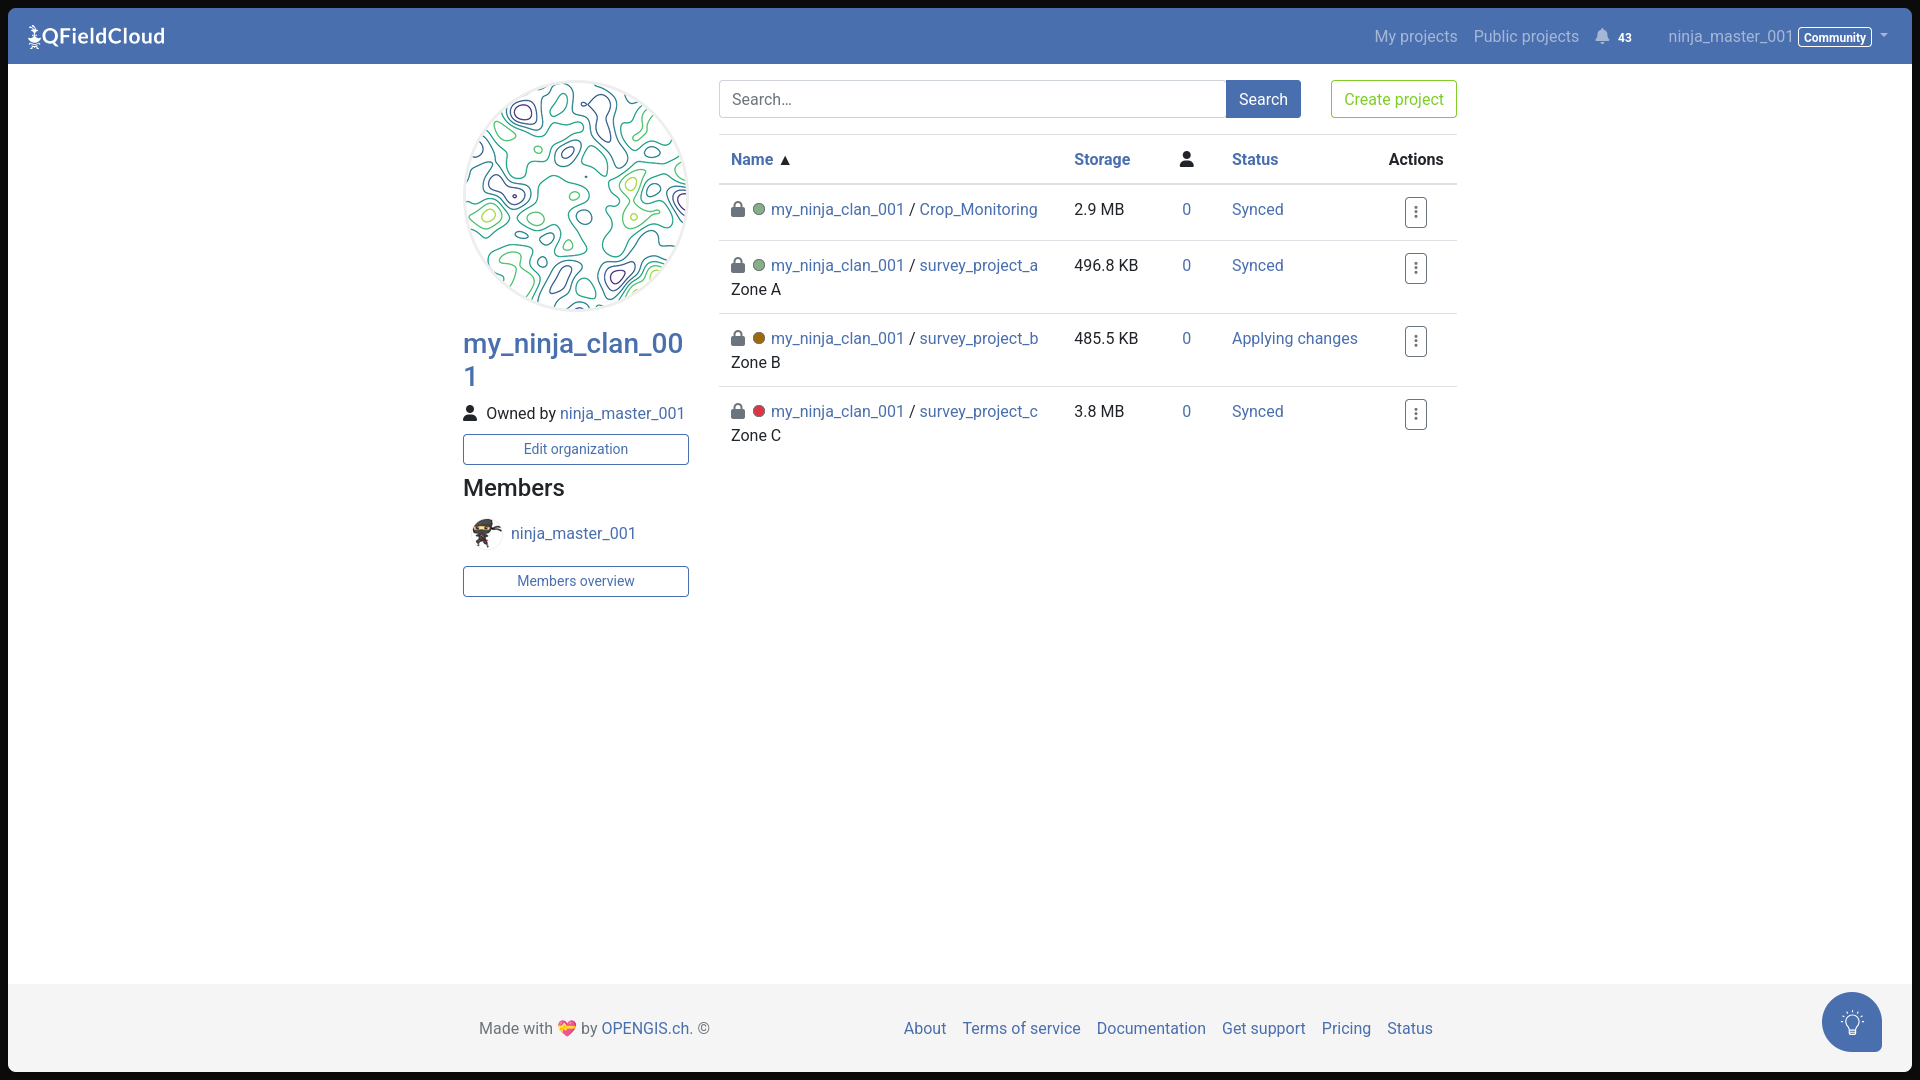
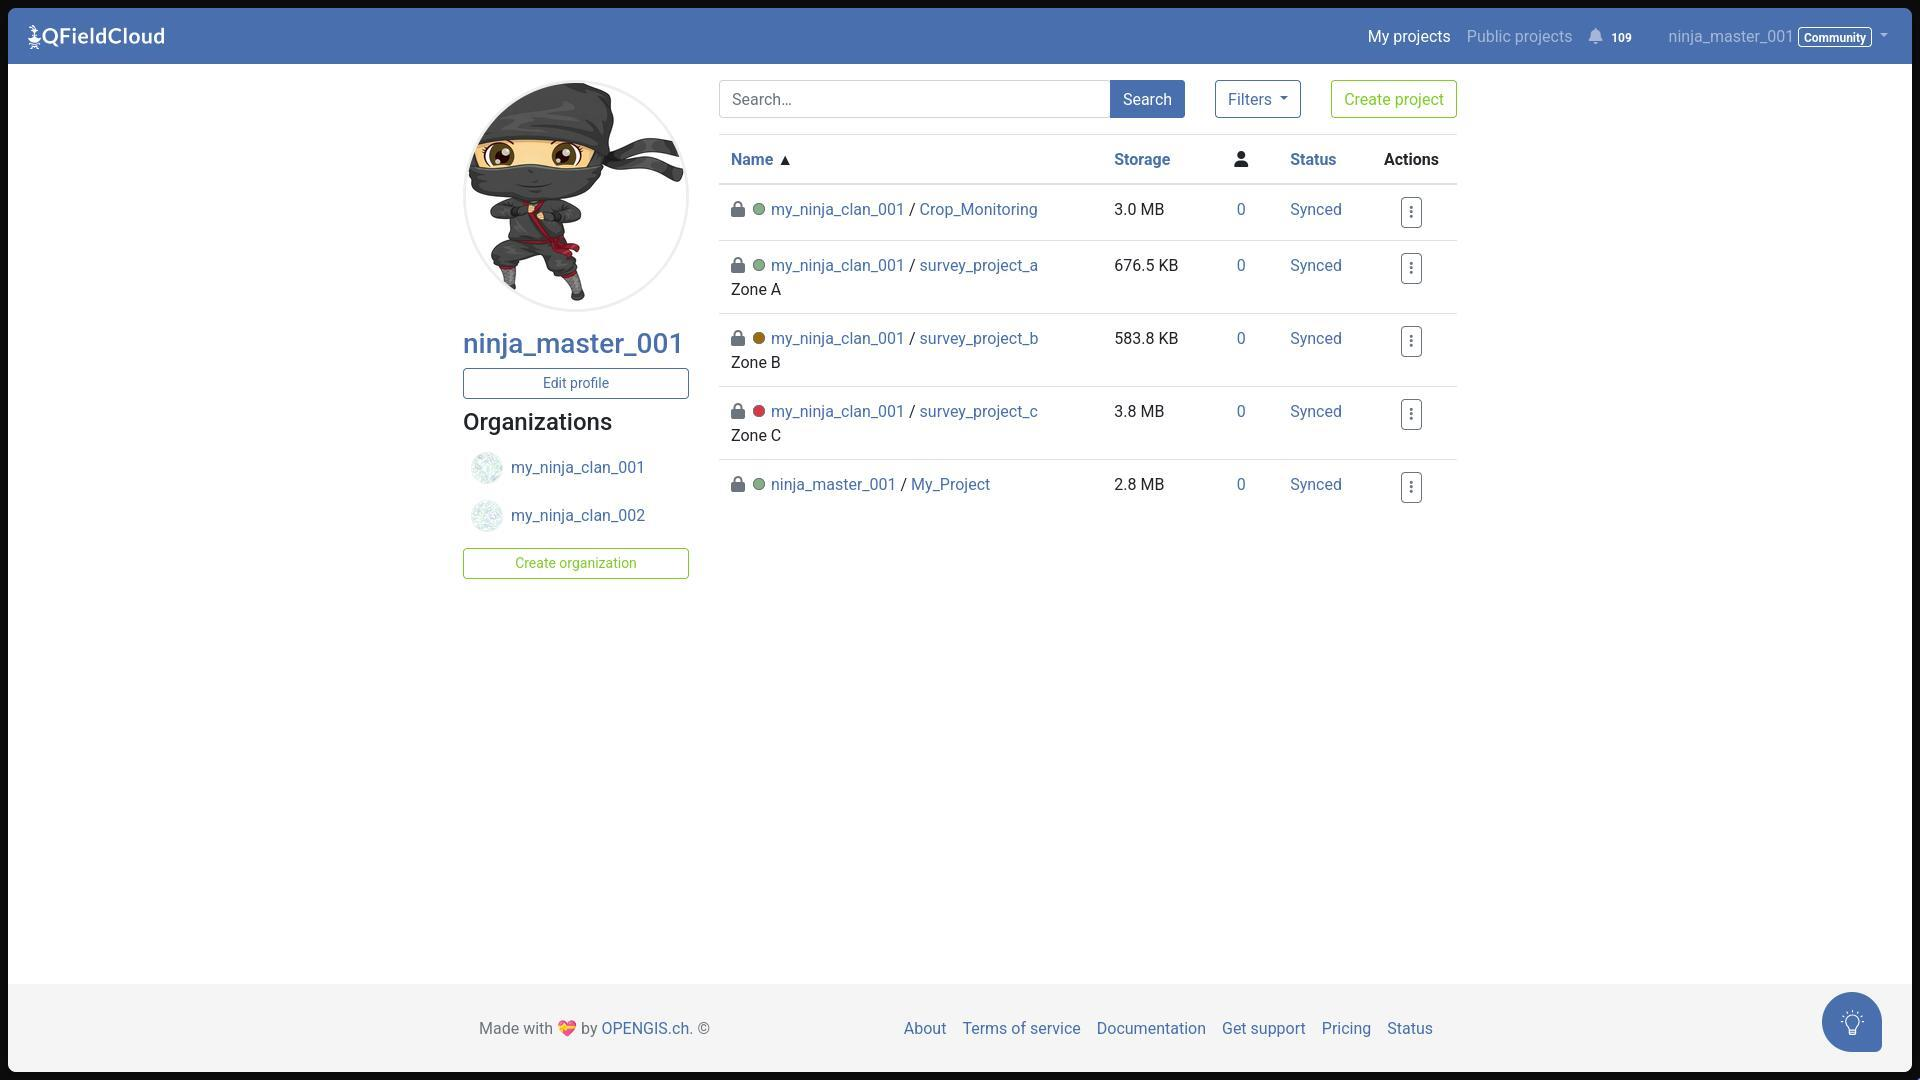
Documenting Add the ability to filter projects by their ownership and type

diff --git a/documentation/get-started/tutorials/get-started-qfc.en.md b/documentation/get-started/tutorials/get-started-qfc.en.md
@@ -18,20 +18,40 @@ You can further manage teams, work in organisations, assign different editing pe
     2. (Optionable) If you have a received a referral code, please enter it in the according field.
         !![Registration form](../../assets/images/qfieldcloud_registration.png,250px)
 
+
 ## QFieldCloud Overview
 
-Once registered your personal QFieldCloud landing page, will show you all the projects that you have access to in the center of the window.
-In case that you have many projects, you can search in the search bar at the top of the page.
-It is also possible to create a new empty project from this menu.
-All further configuration of that project, however needs to be done inside QGIS.
-Under your profile name, you are able to edit and manage your account details and get an overview of what organizations you are a member of, as well as what collaborations you have.
-Finally, if you have subscribed to a personal plan with [QFieldCloud](https://qfield.cloud/pricing), you can manage it from here.
+Once registered, your personal QFieldCloud landing page will display all the projects you have access to in the center of the window.
+
+Under your profile name, you can edit and manage account details, view organizations you belong to, check project collaborations, and manage personal [subscription plans](https://qfield.cloud/pricing).
 
 !!! Tip
     In the project overview page, the two names indicate the "Owner" of the project and the "Name" of the project.
     In case that you are the owner or a member of an organisation, you may find that the name will be different in case that you are not the project. owner.
 
-!![QFieldCloud projects overview](../../assets/images/overview_projects_qfcloud.png,800px)
+!![QFieldCloud projects overview](../../assets/images/overview_projects_qfcloud.png, 800px)
+
+### Filtering Projects in the Web Interface
+:material-web: Web Interface
+
+When managing a large number of cloud projects, you can refine your project list using the **Filters** dropdown button located next to the search bar.
+
+!![](../../assets/images/qfc_web_project_filters.png, 800px)
+
+The dropdown menu allows you to filter projects by two primary criteria:
+
+- **Ownership:** *(Personal accounts only)*:
+
+    - **My own projects:** Displays only projects where your account is the primary owner.
+    - **Shared with me:** Displays projects owned by collaborators or organizations where you have been granted access.
+
+- **Project type:**
+
+    - **Regular projects:** Standard QGIS mapping projects created for field data collection.
+    - **Shared datasets:** Centralized datasets stored in the dedicated `shared_datasets` project repository.
+
+When any filter option is active, clicking **Clear** button immediately resets all active filter parameters and restores the full project view.
+
 
 ## Project Creation
 
